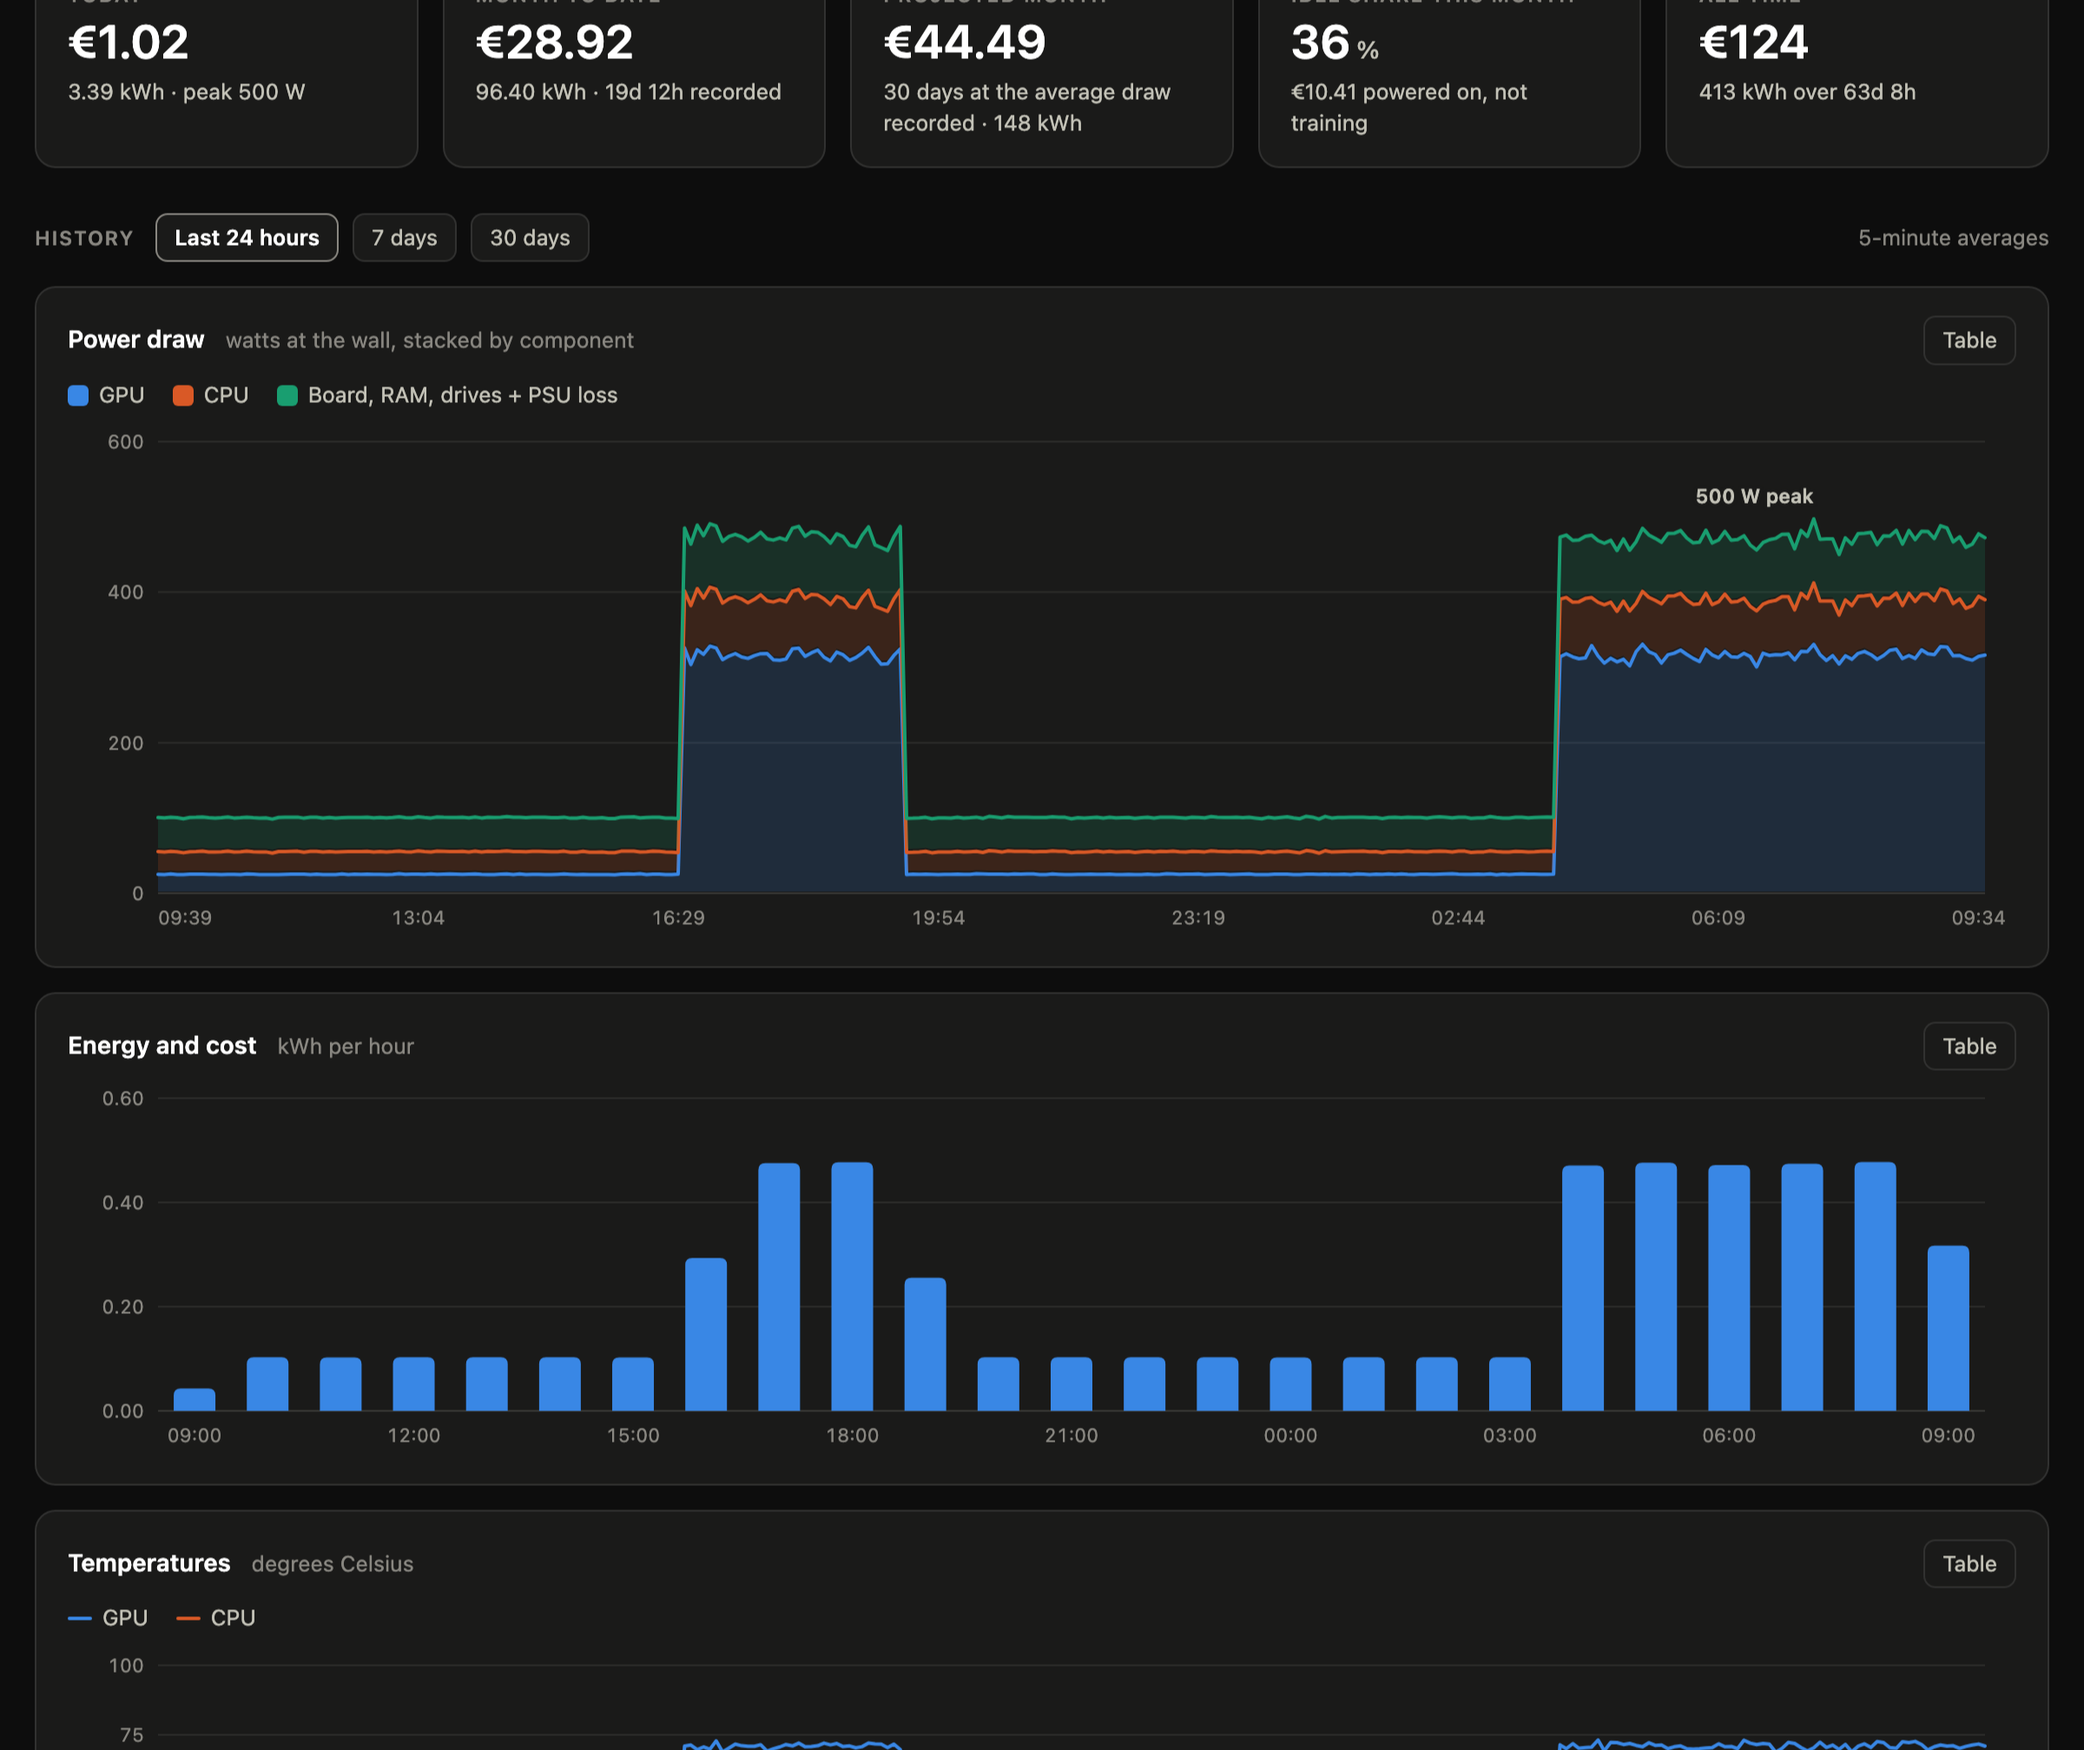
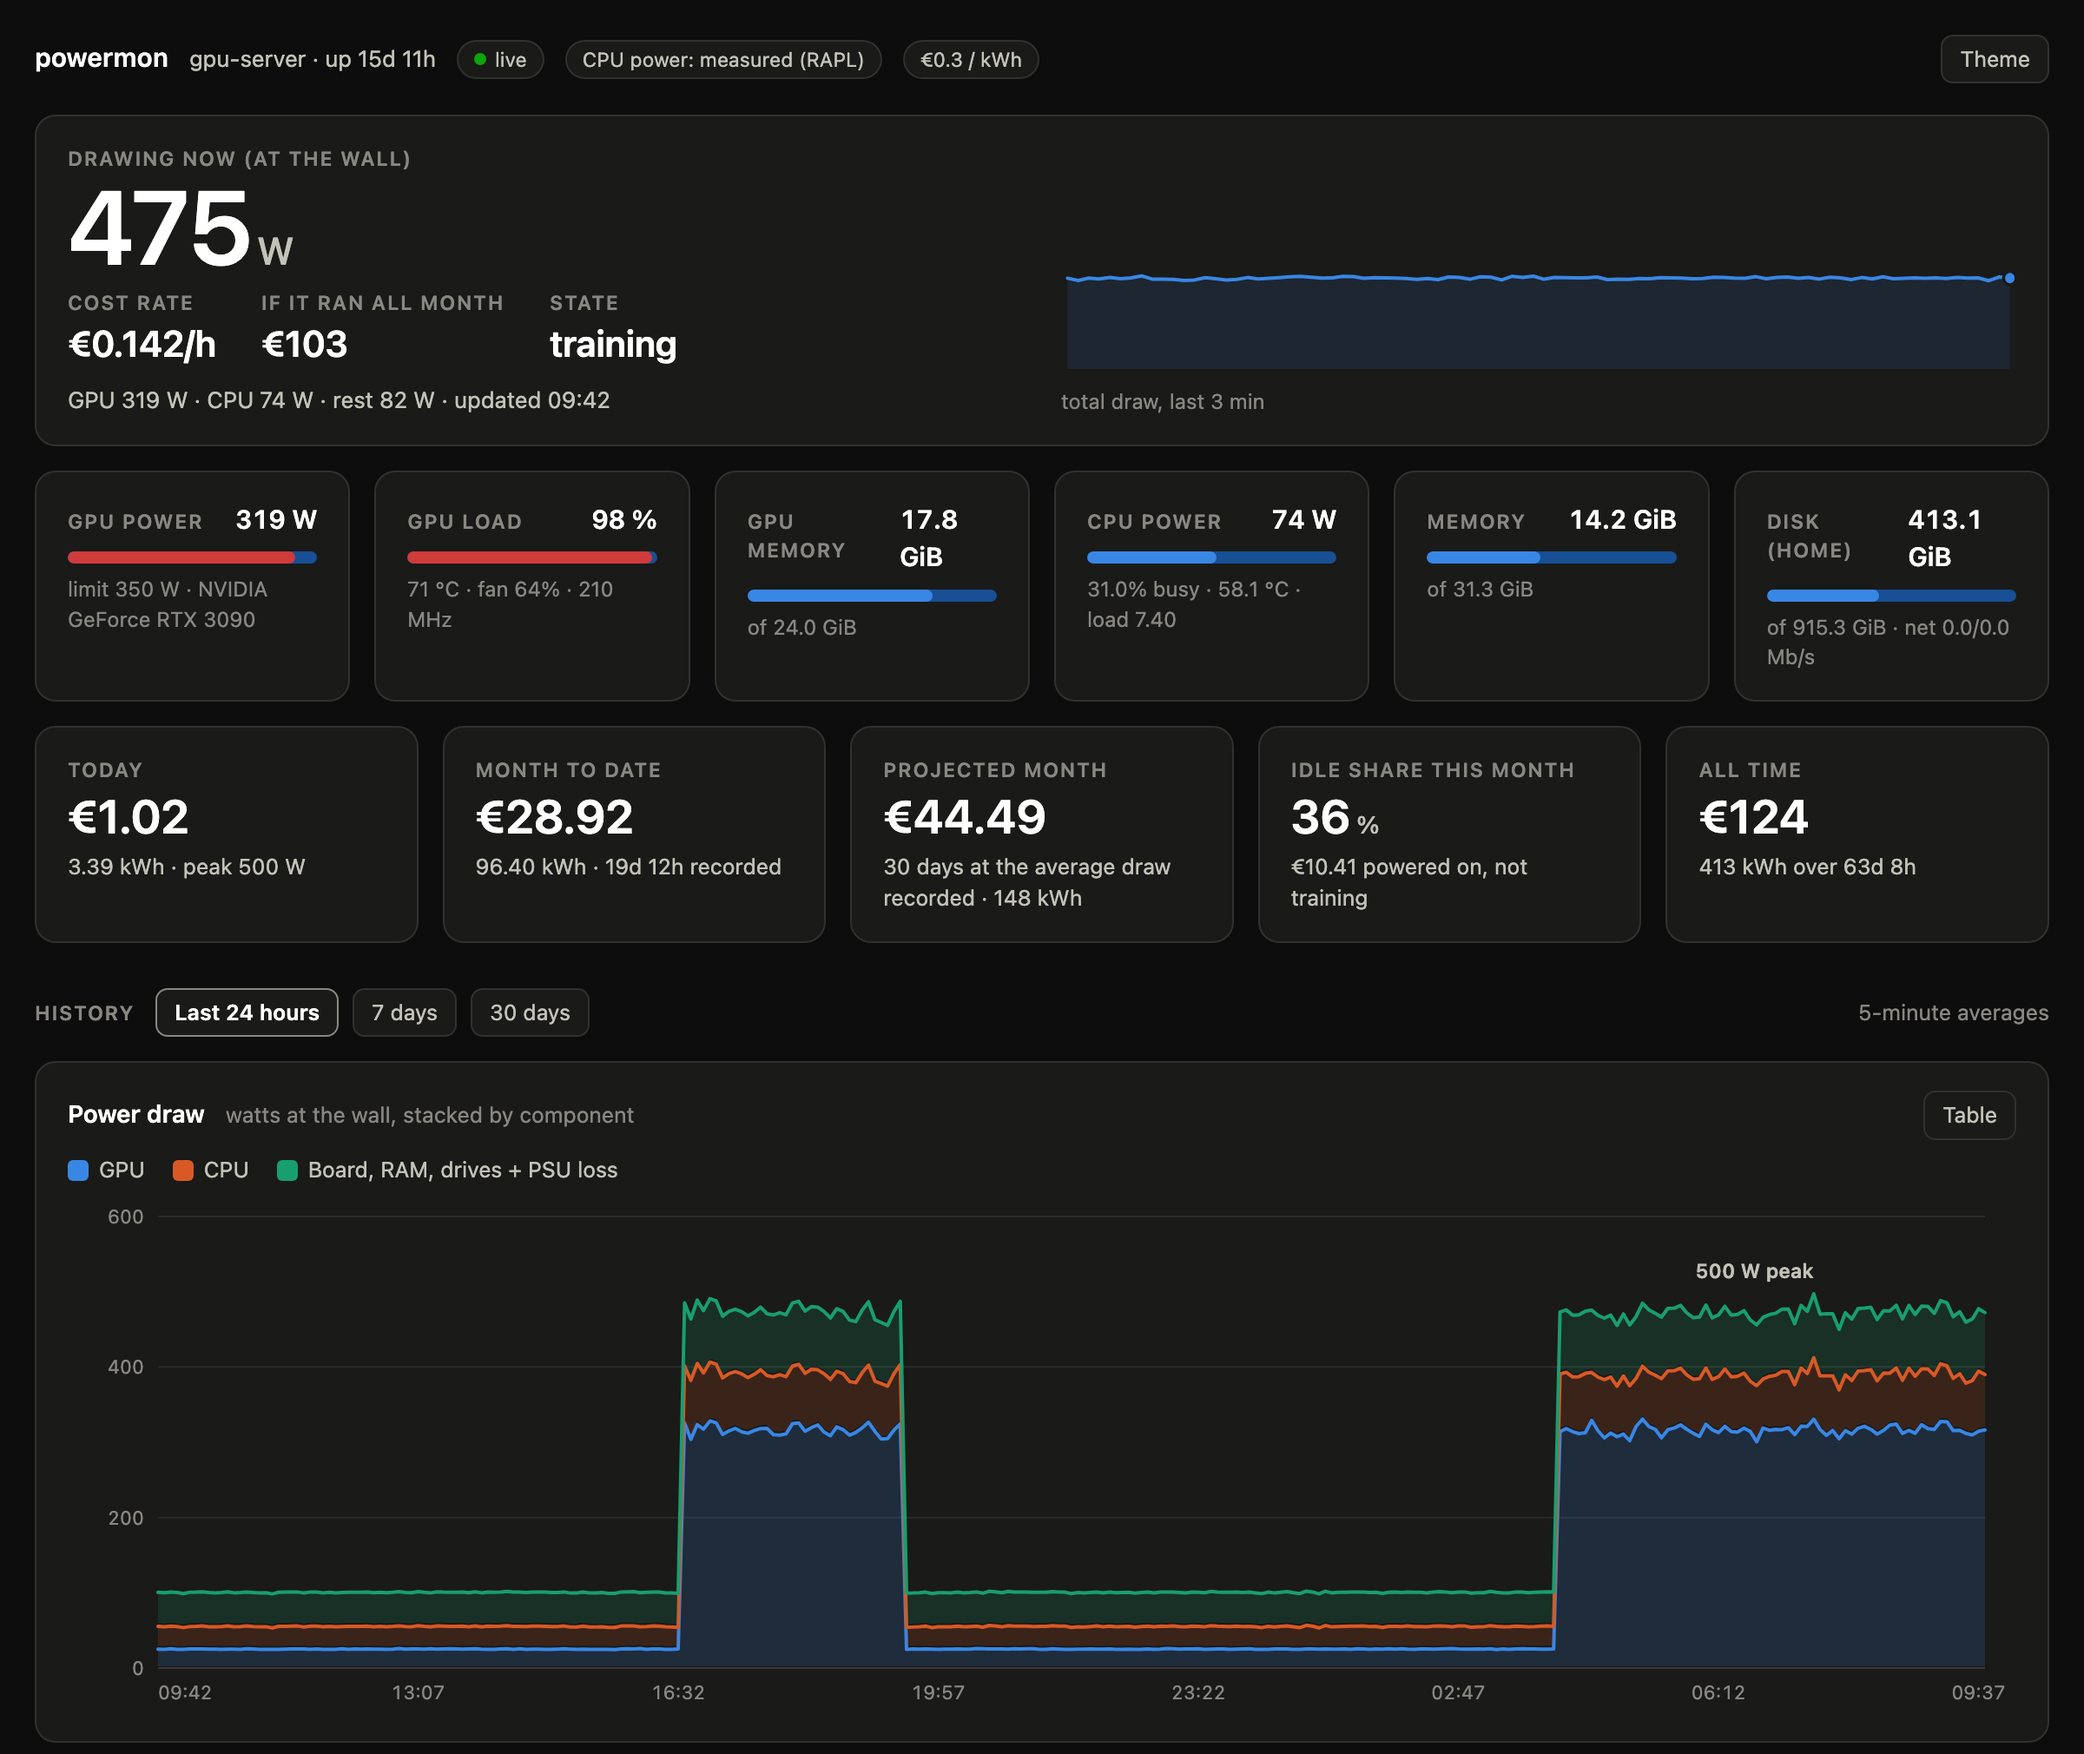
Use a neutral host name in docs, fixtures and the screenshot
Docs and the Settings placeholder say "a server" rather than naming one
machine, test fixtures use gpu-server, and the README screenshot is
regenerated with that host and cropped to the top of the dashboard.
Tooling notes dropped into the test folders no longer collide in the
test bundle.

diff --git a/macos/PowermonMenuBar/Views/SettingsPanelView.swift b/macos/PowermonMenuBar/Views/SettingsPanelView.swift
@@ -29,7 +29,7 @@ struct SettingsPanelView: View {
             Divider()
 
             field("Server URL") {
-                TextField("http://marzmesas-trainbox:8787", text: $urlDraft)
+                TextField("http://my-server:8787", text: $urlDraft)
                     .textFieldStyle(.roundedBorder)
                     .font(.system(size: 11))
                     .onSubmit(commit)

diff --git a/macos/PowermonMenuBarTests/PollerTests.swift b/macos/PowermonMenuBarTests/PollerTests.swift
@@ -62,7 +62,7 @@ final class PollerTests: XCTestCase {
         let poller = makePoller()
         await wait(poller, for: { $0 == .live }, timeout: 5, "live")
 
-        XCTAssertEqual(poller.snapshot?.meta.host, "marzmesas-trainbox")
+        XCTAssertEqual(poller.snapshot?.meta.host, "gpu-server")
         XCTAssertEqual(poller.snapshot?.power.totalW ?? 0, 104.42, accuracy: 0.01)
     }
 

diff --git a/macos/PowermonMenuBarTests/PowermonClientTests.swift b/macos/PowermonMenuBarTests/PowermonClientTests.swift
@@ -24,7 +24,7 @@ final class StubURLProtocol: URLProtocol {
 }
 
 final class PowermonClientTests: XCTestCase {
-    private let baseURL = URL(string: "http://marzmesas-trainbox:8787")!
+    private let baseURL = URL(string: "http://gpu-server:8787")!
 
     private func makeClient(token: String?) -> PowermonClient {
         let config = URLSessionConfiguration.ephemeral

diff --git a/macos/PowermonMenuBarTests/SnapshotDecodingTests.swift b/macos/PowermonMenuBarTests/SnapshotDecodingTests.swift
@@ -19,7 +19,7 @@ final class SnapshotDecodingTests: XCTestCase {
         let s = try decode("sample-now")
 
         XCTAssertEqual(s.power.totalW, 104.42, accuracy: 0.01)
-        XCTAssertEqual(s.meta.host, "marzmesas-trainbox")
+        XCTAssertEqual(s.meta.host, "gpu-server")
         XCTAssertFalse(s.busy)
         XCTAssertEqual(s.spark.total.count, 90)
     }

diff --git a/docs/macos-menubar-app.md b/docs/macos-menubar-app.md
@@ -50,7 +50,7 @@ SSH would be the right call only if there were no daemon to talk to. There is on
 
 ## 3. The backend
 
-`powermon` runs on the Linux training box as a systemd user service, samples
+`powermon` runs on a Linux server as a systemd user service, samples
 every 2 s, and serves HTTP on port 8787. Repo root has the full README.
 
 ### Reaching it
@@ -166,7 +166,7 @@ sensor read fails.
     "symbol": "€", "currency": "EUR", "rate": 0.15, "mode": "flat",
     "baseline_w": 35.0, "psu_efficiency": 0.9,
     "interval": 2.0,                // server sample period, seconds
-    "host": "marzmesas-trainbox",
+    "host": "gpu-server",
     "uptime_s": 329770.41,
     "standing_charge_per_day": 0.0
   }
@@ -242,7 +242,7 @@ grows with content (~380–440 pt typical).
 
 ```
 ┌──────────────────────────────────┐
-│ marzmesas-trainbox      ● training│   host + state
+│ gpu-server              ● training│   host + state
 │ up 3d 20h · CPU estimated         │   secondary, 11pt
 ├──────────────────────────────────┤
 │                                   │
@@ -307,7 +307,7 @@ reading is a lie when the truth is "the read failed".
 
 Standard `Settings` scene, ⌘, — one pane:
 
-- **Server URL** — text field, e.g. `http://marzmesas-trainbox:8787`. Validate as URL.
+- **Server URL** — text field, e.g. `http://my-server:8787`. Validate as URL.
 - **Token** — `SecureField`. Stored in Keychain, never `UserDefaults`.
 - **Test connection** — button; performs one `GET /api/now` and reports
   ✓ connected / ✗ 401 token rejected / ✗ unreachable, with the underlying error.

diff --git a/macos/README.md b/macos/README.md
@@ -1,6 +1,6 @@
 # Powermon — macOS menu bar app
 
-A client of the `powermon` service on the training box. Shows what the machine
+A client of the `powermon` service running on a Linux server. Shows what the machine
 is drawing right now in the menu bar; clicking opens a panel with live detail.
 It collects nothing itself. Full spec: [`../docs/macos-menubar-app.md`](../docs/macos-menubar-app.md).
 
@@ -25,7 +25,7 @@ The built app lands in DerivedData; `Powermon.app` can be copied to
 
 The app starts with no configuration. Open **Settings** (⌘,) from the panel and set:
 
-- **Server URL** — `http://marzmesas-trainbox:8787` over Tailscale, or
+- **Server URL** — `http://<your-server>:8787` over Tailscale, or
   `http://localhost:8787` through an SSH tunnel.
 - **Token** — the `server.token` from the server's `config.toml`. Stored in the
   Keychain. Not needed for a tunnel, because that arrives as loopback.

diff --git a/README.md b/README.md
@@ -29,7 +29,7 @@
   time-of-day or live market price.
 - **Idle share**: what you paid to leave the machine on while it was not
   training.
-- **A push to your phone** when the box burns power with the GPU idle.
+- **A push to your phone** when the machine burns power with the GPU idle.
 - **Three ways to look**: a web dashboard, `pwr` in the terminal, and a macOS
   menu bar app.
 - **Nothing to install**: one Python file, standard library only. It uses
